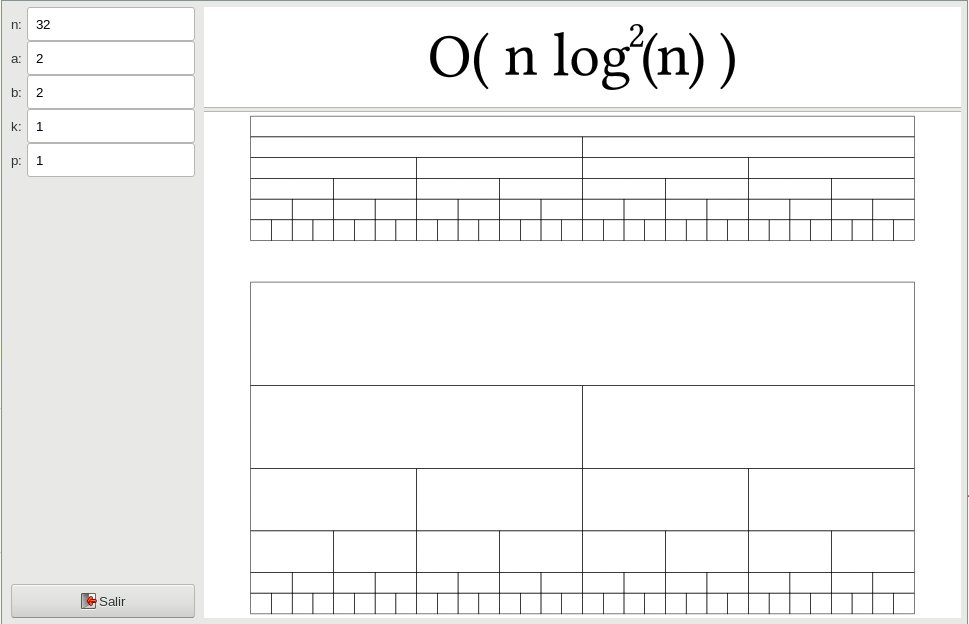
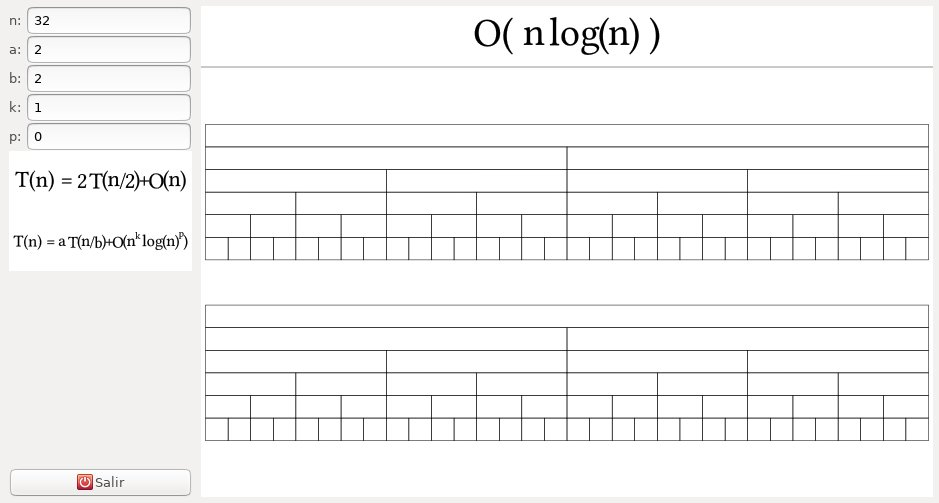
Updated documentation

Changed region(s): [[0.0, 0.0, 1.0, 1.0], [0.0, 0.9245, 0.2162, 1.0], [0.6486, 0.9841, 0.6794, 1.0]]

diff --git a/README.md b/README.md
@@ -20,6 +20,12 @@ The parameters are:
 
 + `k` and `p`: the cost of the computation in each level is O(n^k log^p(n)).
 
+Bellow the parameters there are two equations:
+
++ The one with the parameters filled. This is the equation solved.
+
++ The generic one showing the parameters.
+
 The screen shows three elements:
 
 + The cost of the algorithm in big O notation is shown in the (resizeable)
